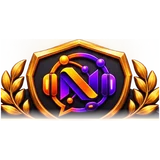
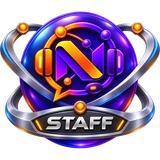
Staff: nova arte do ícone e selo STAFF no perfil

diff --git a/apps/web/src/components/ui/selo-staff.tsx b/apps/web/src/components/ui/selo-staff.tsx
@@ -1,0 +1,19 @@
+import { cn } from '@/lib/utils';
+
+// Selo da equipe do Nexus (cargo Staff), no perfil ao lado do BETA NEXT e do plano.
+export function SeloStaff({ className }: { className?: string }) {
+  return (
+    <span title="Staff · equipe do Nexus"
+      className={cn('inline-flex items-center rounded-full p-[1px] select-none', className)}
+      style={{ background: 'linear-gradient(110deg, #ff9a1f, #a64dff 55%, #4f6bff)' }}>
+      <span className="inline-flex items-center gap-1.5 rounded-full pl-0.5 pr-2.5 py-[2px] bg-[#130d1d]">
+        {/* eslint-disable-next-line @next/next/no-img-element */}
+        <img src="/itens/icones/i-staff.webp" alt="" aria-hidden className="w-[20px] h-[20px] object-contain" draggable={false} />
+        <span className="text-[10.5px] font-black tracking-[0.14em] leading-none bg-clip-text text-transparent"
+          style={{ backgroundImage: 'linear-gradient(90deg, #ffc070, #d29bff 50%, #8fa2ff)' }}>
+          STAFF
+        </span>
+      </span>
+    </span>
+  );
+}

diff --git a/apps/web/src/components/servers/member-list.tsx b/apps/web/src/components/servers/member-list.tsx
@@ -9,6 +9,7 @@ import { getSocket, joinServer } from '@/lib/socket';
 import { useAuthStore } from '@/stores/auth.store';
 import { Avatar } from '@/components/ui/avatar';
 import { EmblemaBeta, SeloBeta } from '@/components/ui/emblema-beta';
+import { SeloStaff } from '@/components/ui/selo-staff';
 import { FaixaConquistas } from '@/components/voice/placar';
 import { EmblemaPlano, SeloPlano } from '@/components/ui/selo-plano';
 import { cn } from '@/lib/utils';
@@ -360,6 +361,7 @@ function MemberProfileCard({ member, members, serverId, onClose, onChanged }: {
             @{member.user.username}
           </p>
           <div className="flex flex-wrap gap-1.5">
+            {(pub as any)?.isStaff && <SeloStaff className="mt-2" />}
             {member.user.isBetaTester && <SeloBeta className="mt-2" />}
             <SeloPlano usuario={member.user as any} className="mt-2" />
           </div>

diff --git a/apps/web/src/components/settings/profile-card.tsx b/apps/web/src/components/settings/profile-card.tsx
@@ -8,6 +8,7 @@ import { Camera, Loader2, Palette, X } from 'lucide-react';
 import { cn, getInitials, STATUS_COLORS } from '@/lib/utils';
 import { useAuthStore } from '@/stores/auth.store';
 import { SeloBeta } from '@/components/ui/emblema-beta';
+import { SeloStaff } from '@/components/ui/selo-staff';
 import { FaixaConquistas } from '@/components/voice/placar';
 import { SeloPlano } from '@/components/ui/selo-plano';
 import api from '@/lib/api';
@@ -216,6 +217,7 @@ export function ProfileCard() {
         </div>
 
         <div className="flex flex-wrap gap-1.5">
+          {user?.isStaff && <SeloStaff className="mt-3" />}
           {user?.isBetaTester && <SeloBeta className="mt-3" />}
           <SeloPlano usuario={user} className="mt-3" />
         </div>

diff --git a/apps/web/src/stores/auth.store.ts b/apps/web/src/stores/auth.store.ts
@@ -10,6 +10,7 @@ export interface User {
   username: string;
   isAdmin: boolean;
   isBetaTester?: boolean;      // emblema BETA NEXT
+  isStaff?: boolean;           // cargo Staff (selo no perfil)
   isVerified?: boolean;        // e-mail confirmado
   twoFactorEnabled?: boolean;  // verificação em duas etapas ligada
   plano?: 'gratis' | 'mais' | 'pro';

diff --git a/apps/server/src/users/users.service.ts b/apps/server/src/users/users.service.ts
@@ -32,6 +32,7 @@ export class UsersService {
         username: true,
         createdAt: true,
         isBetaTester: true,
+        isStaff: true, // selo STAFF no perfil
         plano: true,
         profile: {
           select: {
